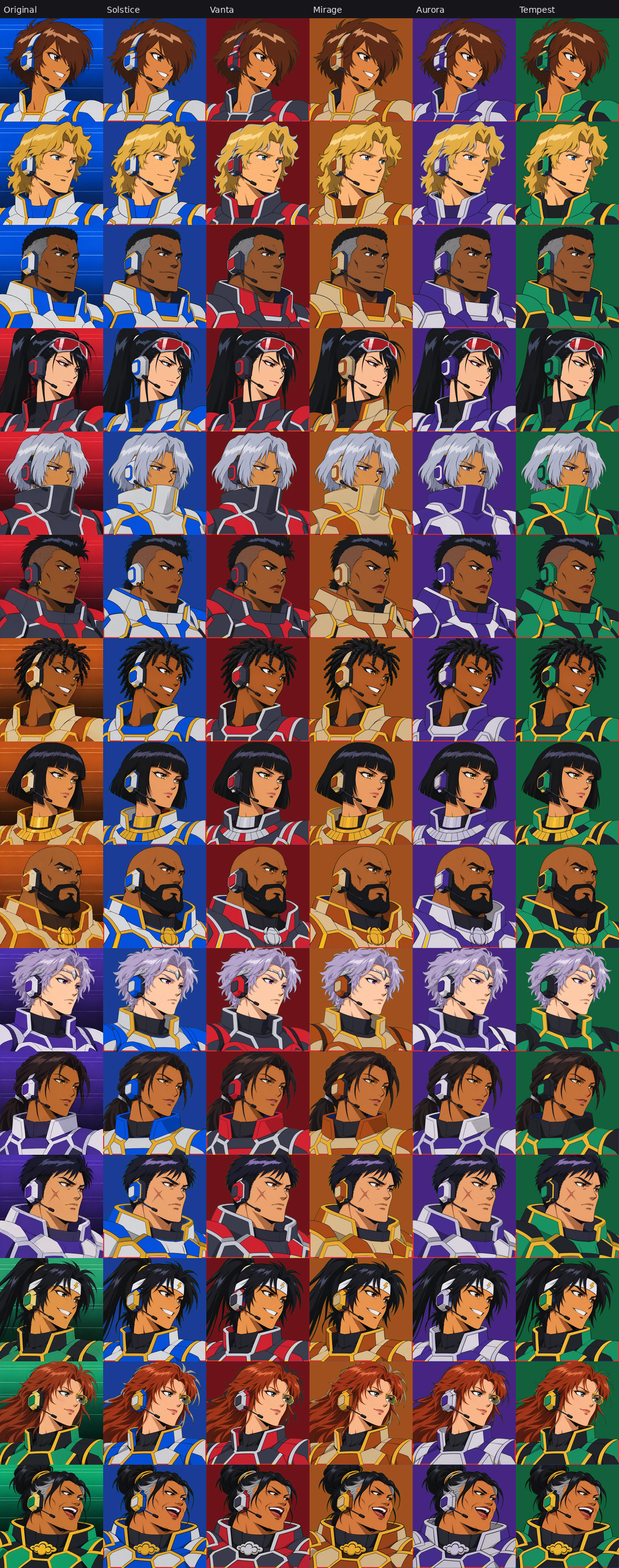
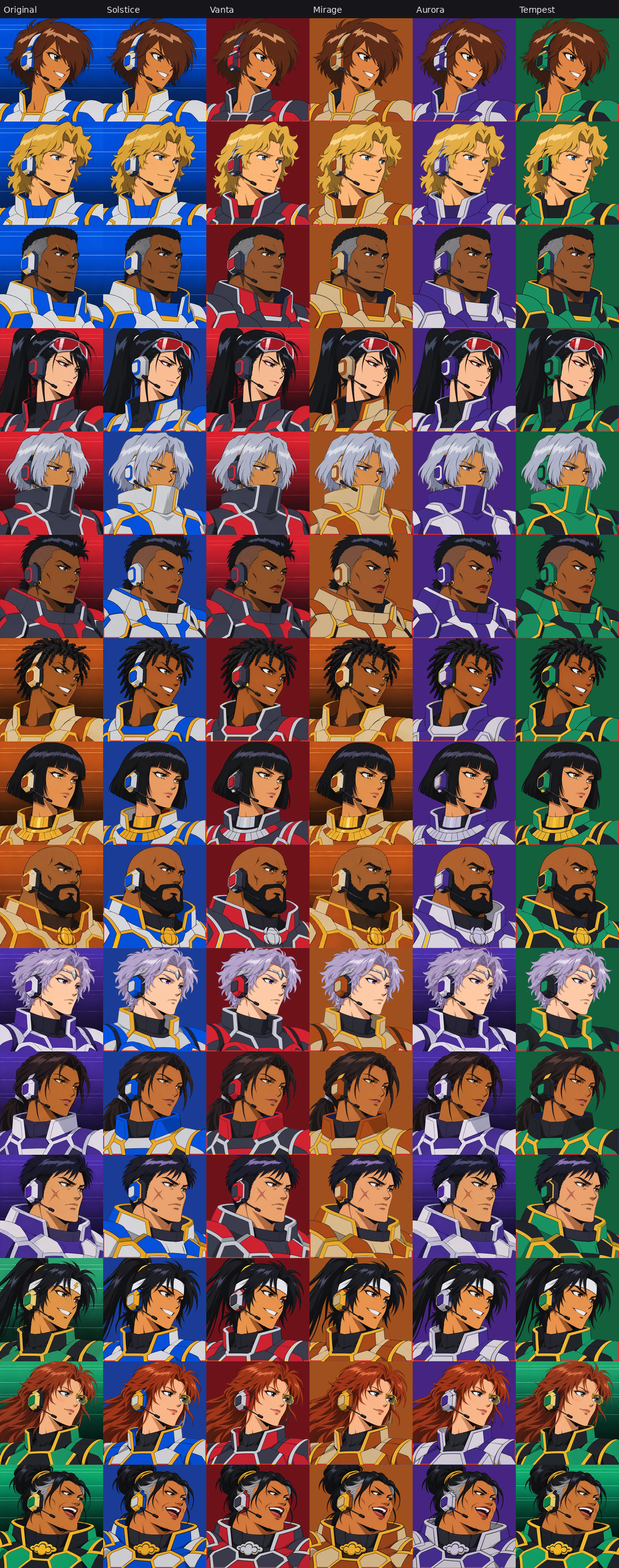
Portraits: Squall without the bolt for players; recolouring fixes
Squall's headband bolt is a Tempest emblem, so the player's version has it
painted out (keyed/pilot-squall-plain.png); the computer Squall keeps it.
The team preview (keyed/teams.png) is rebuilt: Gale's redrawn hair is no
longer taken for suit, the green ground's edges are un-mixed so fine hair
keeps no fringe, Solstice's inner suit is dark (Orion's straps), and a
player on their own team gets the painting itself. NOTES.md says how.

Claude-Session: https://claude.ai/code/session_01SRYu9jH5hsHdBaNMVPBWoP

diff --git a/art/portraits/keyed/NOTES.md b/art/portraits/keyed/NOTES.md
@@ -7,10 +7,21 @@ five teams' colours (a preview, made by recolouring the key colours).
 - They came back 1254 x 1254, not 1024: scaled when they are built.
 - The framing matches the originals exactly (no shift or scale, measured).
 - Recolouring touches only the suit and headset: the area the edit
-  repainted, closed over the ink between panels and filled down to the
-  bottom edge, plus every blue patch touching it (Solstice's blue is the
-  key's blue, so its blue panels did not change). Hair, goggles, glasses,
-  earrings and the like stay as painted.
+  repainted in the key colours, kept where it runs off the bottom edge (the
+  suit) or holds several key colours together (the headset), so a strand of
+  hair redrawn in a red close to the key's (Gale) is left alone; closed over
+  the ink between panels and filled down to the bottom edge; plus every blue
+  patch touching it (Solstice's blue is the key's blue, so its blue panels
+  did not change). Hair, goggles, glasses, earrings and the like stay as
+  painted.
+- The green ground comes out with its edges un-mixed (each edge pixel
+  re-blended from the nearest solid colour), so fine hair keeps no green or
+  grey fringe.
+- Each team's colours are taken from its own three pilots, except
+  Solstice's inner suit, which is dark like everyone's (its pilots' blue
+  linings are their own; straps like Orion's stay dark).
+- On their own team a player gets the painting itself, unless it carries
+  something taken out of the player's version.
 - Small drift from the redraw: Bastion's hair highlight came back a brighter
   lavender than the original's blue-grey; Moth is softer than the rest;
   Sirocco's locs are redrawn a little. Outside the suit and headset the
@@ -18,11 +29,13 @@ five teams' colours (a preview, made by recolouring the key colours).
 - Lark's collar lining was blue and came back in the inner suit's dark key.
   Solstice's own colours map that key to its blue, so in Solstice it looks
   as before.
-- Team emblems worn by a pilot: Squall's headband bolt and Anvil's cloud
-  brooch (Tempest), Dune's scarab brooch (Mirage). To show only on their
-  own team, each needs a version without it (`pilot-<name>-plain.png`):
-  the emblem is then the difference, a layer of its own. Ibis's gold collar
-  is part of her suit and takes each team's trim.
+- Team emblems worn by a pilot: Squall's headband bolt (Tempest) is out of
+  the player's version, on every team: `pilot-squall-plain.png`, painted out
+  here (the headband's own white fitted over it); the computer Squall keeps
+  it. Anvil's cloud brooch (Tempest) and Dune's scarab (Mirage) are still
+  in, taking each team's trim colour; to take them out too, an edit each
+  (PROMPTS-style: select the brooch, continue the suit behind it). Ibis's
+  gold collar is part of her suit and takes each team's trim.
 
 The template (`../trial/T1a` to `T1d`) passed: each edit changed only its
 own area (compared pixel by pixel). Its face sits a little longer than the
